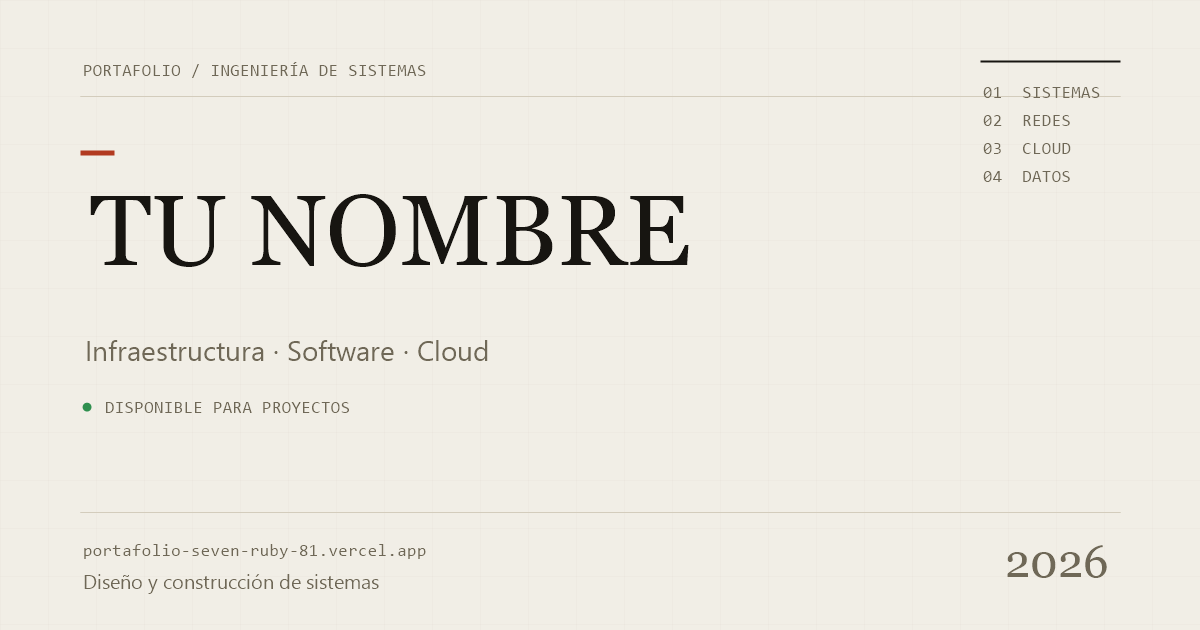
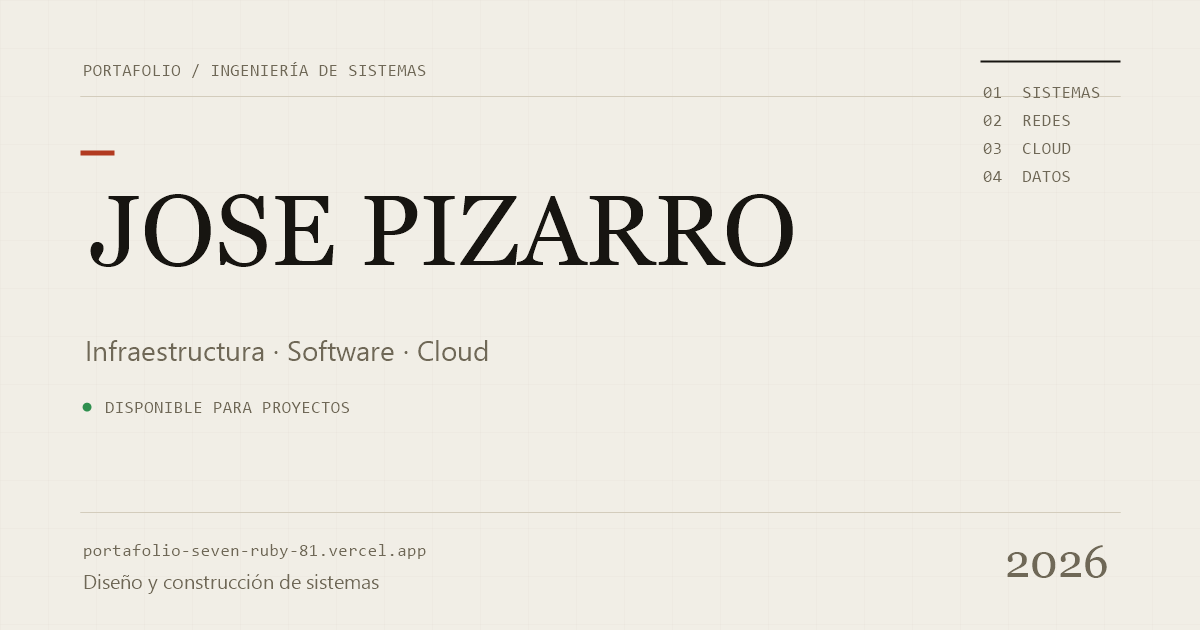
feat: iconos de GitHub, LinkedIn y YouTube en los enlaces sociales
Sprite ampliado a 92 iconos, nuevo componente SocialIcon y metadatos con el nombre real.

Changed region(s): [[0.0617, 0.3016, 0.6783, 0.4222]]

diff --git a/src/index.html b/src/index.html
@@ -2,7 +2,7 @@
 <html lang="es" data-theme="light">
   <head>
     <meta charset="utf-8" />
-    <title>Portafolio — Ingeniería de Sistemas</title>
+    <title>JOSE PIZARRO — Ingeniería de Sistemas</title>
     <base href="/" />
     <meta name="viewport" content="width=device-width, initial-scale=1" />
     <meta name="color-scheme" content="light dark" />
@@ -12,13 +12,13 @@
       name="description"
       content="Portafolio de ingeniería de sistemas: infraestructura, desarrollo de software, cloud y automatización. Proyectos documentados con su arquitectura y resultados."
     />
-    <meta name="author" content="Portafolio" />
+    <meta name="author" content="JOSE PIZARRO" />
     <meta name="robots" content="index, follow" />
 
     <meta property="og:type" content="website" />
-    <meta property="og:site_name" content="Portafolio" />
+    <meta property="og:site_name" content="JOSE PIZARRO" />
     <meta property="og:url" content="https://portafolio-seven-ruby-81.vercel.app/" />
-    <meta property="og:title" content="Portafolio — Ingeniería de Sistemas" />
+    <meta property="og:title" content="JOSE PIZARRO — Ingeniería de Sistemas" />
     <meta
       property="og:description"
       content="Infraestructura, desarrollo, cloud y automatización. Proyectos documentados con su arquitectura y resultados."
@@ -26,8 +26,9 @@
     <meta property="og:image" content="https://portafolio-seven-ruby-81.vercel.app/og.png" />
     <meta property="og:image:width" content="1200" />
     <meta property="og:image:height" content="630" />
+    <meta property="og:image:alt" content="JOSE PIZARRO — Ingeniería de Sistemas" />
     <meta name="twitter:card" content="summary_large_image" />
-    <meta name="twitter:title" content="Portafolio — Ingeniería de Sistemas" />
+    <meta name="twitter:title" content="JOSE PIZARRO — Ingeniería de Sistemas" />
     <meta
       name="twitter:description"
       content="Infraestructura, desarrollo, cloud y automatización. Proyectos documentados con su arquitectura y resultados."

diff --git a/src/app/core/profile.ts b/src/app/core/profile.ts
@@ -6,17 +6,18 @@
  */
 export const PROFILE = {
   /** Nombre o marca. Aparece en el logo, el pie y los metadatos. */
-  name: 'TU NOMBRE',
+  name: 'JOSE PIZARRO',
   /** Dos iniciales para el monograma de la cabecera. */
-  initials: 'TN',
+  initials: 'JP',
   /** Especialidad o cargo. */
   role: 'Ingeniería de Sistemas',
   /** Línea corta que aparece en la cabecera y el pie. */
   focus: 'Infraestructura · Software · Cloud',
   location: 'Tingo María, Perú',
   timezone: 'America/Lima',
-  email: 'hola@tudominio.com',
-  phone: '+51 000 000 000',
+  /** Correo electrónico. */
+  email: '123fernando159@gmail.com',
+  phone: '+51 969 456 449',
   /** Mientras esté en true se muestra el punto verde de disponibilidad. */
   available: true,
   availabilityLabel: 'Disponible para proyectos',
@@ -26,9 +27,19 @@ export const PROFILE = {
   startYear: 2023,
 
   socials: [
-    { label: 'GitHub', handle: '@tu-usuario', href: 'https://github.com/tu-usuario' },
-    { label: 'LinkedIn', handle: '/in/tu-usuario', href: 'https://www.linkedin.com/in/tu-usuario' },
-    { label: 'Instagram', handle: '@tu-usuario', href: 'https://instagram.com/tu-usuario' },
+    { label: 'GitHub', icon: 'github', handle: '@J0sePs', href: 'https://github.com/J0sePs' },
+    {
+      label: 'LinkedIn',
+      icon: 'linkedin',
+      handle: 'in/jose-fernando-pizarro-salome-249547434',
+      href: 'https://www.linkedin.com/in/jose-fernando-pizarro-salome-249547434/',
+    },
+    {
+      label: 'YouTube',
+      icon: 'youtube',
+      handle: '@PrimeNote365',
+      href: 'https://www.youtube.com/@PrimeNote365',
+    },
   ],
 } as const;
 

diff --git a/src/app/shared/social-icon/social-icon.ts b/src/app/shared/social-icon/social-icon.ts
@@ -1,0 +1,38 @@
+import { Component, computed, input } from '@angular/core';
+
+/**
+ * Icono de red social. Reutiliza el sprite de `/icons/tech-sprite.svg`
+ * (GitHub, LinkedIn y YouTube están incluidos).
+ */
+@Component({
+  selector: 'app-social-icon',
+  template: `
+    <svg viewBox="0 0 24 24" aria-hidden="true" focusable="false">
+      <use [attr.href]="href()"></use>
+    </svg>
+  `,
+  styles: [
+    `
+      :host {
+        display: inline-flex;
+        width: 1em;
+        height: 1em;
+        flex: none;
+      }
+
+      svg {
+        width: 100%;
+        height: 100%;
+        fill: currentColor;
+      }
+    `,
+  ],
+  host: {
+    'aria-hidden': 'true',
+  },
+})
+export class SocialIcon {
+  readonly network = input.required<string>();
+
+  protected readonly href = computed(() => `/icons/tech-sprite.svg#tech-${this.network()}`);
+}

diff --git a/src/app/shared/footer/footer.css b/src/app/shared/footer/footer.css
@@ -75,8 +75,21 @@
 
 .footer__col a {
   display: inline-flex;
-  align-items: baseline;
-  gap: 0.5rem;
+  align-items: center;
+  flex-wrap: wrap;
+  column-gap: 0.5rem;
+  row-gap: 0.1rem;
+  max-width: 100%;
+}
+
+.footer__col a app-social-icon {
+  font-size: 13px;
+  color: var(--muted);
+  transition: color 0.2s;
+}
+
+.footer__col a:hover app-social-icon {
+  color: var(--accent);
 }
 
 .footer__col a:hover {
@@ -85,9 +98,11 @@
 
 .footer__handle {
   font-family: var(--mono);
-  font-size: 10px;
+  font-size: 9.5px;
   color: var(--muted);
-  letter-spacing: 0.04em;
+  letter-spacing: 0.02em;
+  max-width: 100%;
+  overflow-wrap: anywhere;
 }
 
 .footer__status {

diff --git a/src/app/features/contact/contact.css b/src/app/features/contact/contact.css
@@ -164,15 +164,31 @@
 }
 
 .channels__label {
+  display: inline-flex;
+  align-items: center;
+  gap: 0.55rem;
   font-size: 0.9375rem;
+}
+
+.channels__label app-social-icon {
+  font-size: 15px;
+  color: var(--muted);
+  transition: color 0.25s;
+}
+
+.channels a:hover .channels__label app-social-icon {
+  color: var(--accent);
 }
 
 .channels__handle {
   font-family: var(--mono);
   font-size: 10px;
-  letter-spacing: 0.04em;
+  letter-spacing: 0.02em;
   color: var(--muted);
   text-align: right;
+  overflow: hidden;
+  text-overflow: ellipsis;
+  white-space: nowrap;
 }
 
 .channels app-arrow {

diff --git a/src/app/features/contact/contact.html b/src/app/features/contact/contact.html
@@ -53,7 +53,10 @@
         @for (social of profile.socials; track social.href) {
           <li>
             <a [href]="social.href" target="_blank" rel="noopener noreferrer">
-              <span class="channels__label">{{ social.label }}</span>
+              <span class="channels__label">
+                <app-social-icon [network]="social.icon" />
+                {{ social.label }}
+              </span>
               <span class="channels__handle">{{ social.handle }}</span>
               <app-arrow direction="up-right" />
             </a>

diff --git a/src/app/features/contact/contact.ts b/src/app/features/contact/contact.ts
@@ -4,10 +4,11 @@ import { PROFILE } from '../../core/profile';
 import { SeoService } from '../../core/seo.service';
 import { Arrow } from '../../shared/arrow/arrow';
 import { RevealDirective } from '../../shared/reveal.directive';
+import { SocialIcon } from '../../shared/social-icon/social-icon';
 
 @Component({
   selector: 'app-contact',
-  imports: [Arrow, RevealDirective],
+  imports: [Arrow, RevealDirective, SocialIcon],
   templateUrl: './contact.html',
   styleUrl: './contact.css',
 })

diff --git a/src/app/shared/footer/footer.ts b/src/app/shared/footer/footer.ts
@@ -3,10 +3,11 @@ import { RouterLink } from '@angular/router';
 
 import { PROFILE } from '../../core/profile';
 import { Arrow } from '../arrow/arrow';
+import { SocialIcon } from '../social-icon/social-icon';
 
 @Component({
   selector: 'app-footer',
-  imports: [RouterLink, Arrow],
+  imports: [RouterLink, Arrow, SocialIcon],
   templateUrl: './footer.html',
   styleUrl: './footer.css',
 })

diff --git a/src/app/shared/footer/footer.html b/src/app/shared/footer/footer.html
@@ -27,6 +27,7 @@
           @for (social of profile.socials; track social.href) {
             <li>
               <a [href]="social.href" target="_blank" rel="noopener noreferrer">
+                <app-social-icon [network]="social.icon" />
                 {{ social.label }}
                 <span class="footer__handle">{{ social.handle }}</span>
               </a>
